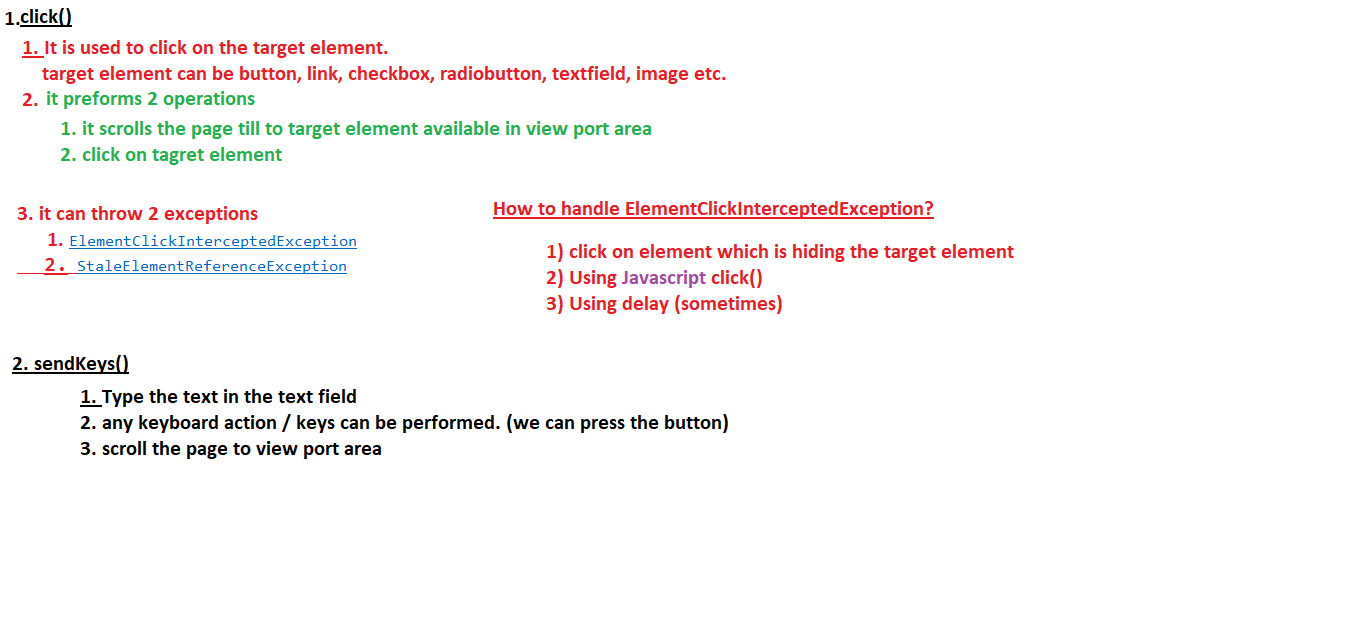
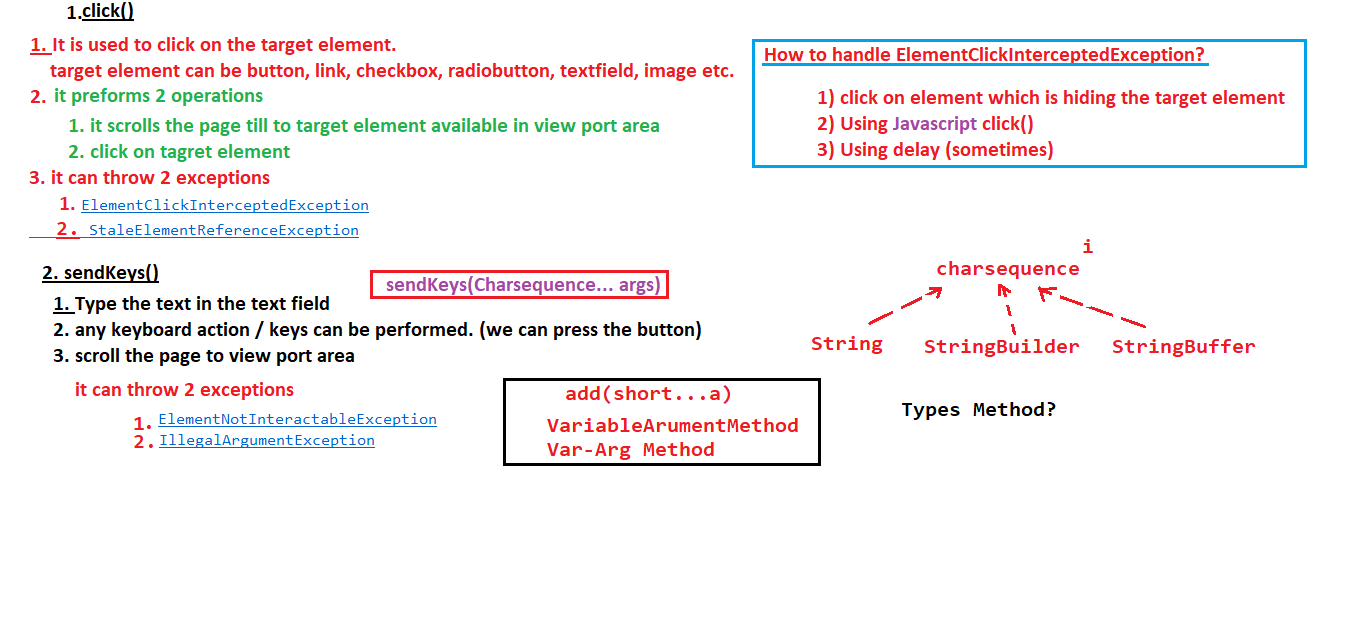
New Commit

diff --git a/SMAY7012025_Old/src/methodOfWebElement/UsageOfGetTextMethod.java b/SMAY7012025_Old/src/methodOfWebElement/UsageOfGetTextMethod.java
@@ -1,0 +1,32 @@
+package methodOfWebElement;
+
+import org.openqa.selenium.By;
+import org.openqa.selenium.WebDriver;
+import org.openqa.selenium.chrome.ChromeDriver;
+
+public class UsageOfGetTextMethod {
+
+	public static void main(String[] args) {
+		System.setProperty("webdriver.chrome.driver", "./drivers/chromedriver.exe");
+		WebDriver driver = new ChromeDriver(); 
+		driver.manage().window().maximize();
+		
+		driver.get("https://testautomationpractice.blogspot.com/");
+		
+		String actualText = driver.findElement(By.name("start")).getText();
+		
+		String exceptedText = "START";
+		
+		System.out.println("actualText: "+actualText);
+		System.out.println("exceptedText: "+exceptedText);
+		
+		
+		if(actualText.equalsIgnoreCase(exceptedText)) {
+			System.out.println("PASS:: Text of the button is as expected");
+		}else {
+			System.out.println("FAIL:: Text of the button is not as expected");
+		}
+		driver.quit();
+	}
+
+}

diff --git a/SMAY7012025_Old/src/methodOfWebElement/UsageOfSendKyesCharSequence2.java b/SMAY7012025_Old/src/methodOfWebElement/UsageOfSendKyesCharSequence2.java
@@ -1,25 +1,22 @@
-package test;
+package methodOfWebElement;
 
 import org.openqa.selenium.By;
-import org.openqa.selenium.Keys;
 import org.openqa.selenium.WebDriver;
 import org.openqa.selenium.chrome.ChromeDriver;
 
-public class P1 {
+public class UsageOfSendKyesCharSequence2 {
 
 	public static void main(String[] args) throws InterruptedException {
 		System.setProperty("webdriver.chrome.driver", "./drivers/chromedriver.exe");
-		WebDriver driver = new ChromeDriver();
+		WebDriver driver = new ChromeDriver(); 
 		driver.manage().window().maximize();
+		
 		driver.get("https://opensource-demo.orangehrmlive.com/web/index.php/auth/login");
-		Thread.sleep(3000);
 		
-		String username = null;
+		Thread.sleep(5000);
 		
-		driver.findElement(By.name("username")).sendKeys(username);
-		
-		
-		
+		driver.findElement(By.name("username")).sendKeys("Sheela", "Meena", "Teena");
+
 	}
 
 }

diff --git a/SMAY7012025_Old/src/methodOfWebElement/UsageOfSendKyesException2.java b/SMAY7012025_Old/src/methodOfWebElement/UsageOfSendKyesException2.java
@@ -1,25 +1,26 @@
-package test;
+package methodOfWebElement;
 
 import org.openqa.selenium.By;
-import org.openqa.selenium.Keys;
 import org.openqa.selenium.WebDriver;
+import org.openqa.selenium.WebElement;
 import org.openqa.selenium.chrome.ChromeDriver;
 
-public class P1 {
+public class UsageOfSendKyesException2 {
 
 	public static void main(String[] args) throws InterruptedException {
 		System.setProperty("webdriver.chrome.driver", "./drivers/chromedriver.exe");
-		WebDriver driver = new ChromeDriver();
+		WebDriver driver = new ChromeDriver(); 
 		driver.manage().window().maximize();
+		
 		driver.get("https://opensource-demo.orangehrmlive.com/web/index.php/auth/login");
-		Thread.sleep(3000);
+		
+		Thread.sleep(5000);
 		
 		String username = null;
 		
 		driver.findElement(By.name("username")).sendKeys(username);
 		
-		
-		
+
 	}
 
 }

diff --git a/SMAY7012025_Old/src/methodOfWebElement/UsageOfSendKyesCharSequence1.java b/SMAY7012025_Old/src/methodOfWebElement/UsageOfSendKyesCharSequence1.java
@@ -1,0 +1,27 @@
+package methodOfWebElement;
+
+import org.openqa.selenium.By;
+import org.openqa.selenium.WebDriver;
+import org.openqa.selenium.chrome.ChromeDriver;
+
+public class UsageOfSendKyesCharSequence1 {
+
+	public static void main(String[] args) throws InterruptedException {
+		System.setProperty("webdriver.chrome.driver", "./drivers/chromedriver.exe");
+		WebDriver driver = new ChromeDriver(); 
+		driver.manage().window().maximize();
+		
+		driver.get("https://opensource-demo.orangehrmlive.com/web/index.php/auth/login");
+		
+		Thread.sleep(5000);
+		
+//		StringBuilder username = new StringBuilder("Admin");
+		StringBuffer username1 = new StringBuffer("Sheela");
+		
+//		driver.findElement(By.name("username")).sendKeys(username);
+		
+		driver.findElement(By.name("username")).sendKeys(username1);
+
+	}
+
+}

diff --git a/SMAY7012025_Old/src/methodOfWebElement/UsageOfSendKyesHandleException.java b/SMAY7012025_Old/src/methodOfWebElement/UsageOfSendKyesHandleException.java
@@ -1,0 +1,29 @@
+package methodOfWebElement;
+
+import org.openqa.selenium.By;
+import org.openqa.selenium.WebDriver;
+import org.openqa.selenium.chrome.ChromeDriver;
+
+public class UsageOfSendKyesHandleException {
+
+	public static void main(String[] args) throws InterruptedException {
+		System.setProperty("webdriver.chrome.driver", "./drivers/chromedriver.exe");
+		WebDriver driver = new ChromeDriver(); 
+		driver.manage().window().maximize();
+		
+		driver.get("https://opensource-demo.orangehrmlive.com/web/index.php/auth/login");
+		
+		Thread.sleep(5000);
+		
+		String username = null;
+		
+		if(username!=null) {
+			driver.findElement(By.name("username")).sendKeys(username);
+		}else {
+			System.out.println("Username is not available, it is having null value");
+		}
+		
+
+	}
+
+}

diff --git a/SMAY7012025_Old/src/methodOfWebElement/UsageOfClearMethod.java b/SMAY7012025_Old/src/methodOfWebElement/UsageOfClearMethod.java
@@ -1,0 +1,28 @@
+package methodOfWebElement;
+
+import org.openqa.selenium.By;
+import org.openqa.selenium.WebDriver;
+import org.openqa.selenium.WebElement;
+import org.openqa.selenium.chrome.ChromeDriver;
+
+public class UsageOfClearMethod {
+
+	public static void main(String[] args) throws InterruptedException {
+		System.setProperty("webdriver.chrome.driver", "./drivers/chromedriver.exe");
+		WebDriver driver = new ChromeDriver(); 
+		driver.manage().window().maximize();
+		
+		driver.get("https://testautomationpractice.blogspot.com/");
+		
+		WebElement textField = driver.findElement(By.id("field1"));
+		textField.clear();
+		
+		textField.sendKeys("Vivek");
+		
+		Thread.sleep(5000);
+		
+		driver.quit();
+
+	}
+
+}

diff --git a/SMAY7012025_Old/src/methodOfWebElement/UsageOfSendKyesException1.java b/SMAY7012025_Old/src/methodOfWebElement/UsageOfSendKyesException1.java
@@ -1,0 +1,22 @@
+package methodOfWebElement;
+
+import org.openqa.selenium.By;
+import org.openqa.selenium.WebDriver;
+import org.openqa.selenium.chrome.ChromeDriver;
+
+public class UsageOfSendKyesException1 {
+
+	public static void main(String[] args) {
+		System.setProperty("webdriver.chrome.driver", "./drivers/chromedriver.exe");
+		WebDriver driver = new ChromeDriver();
+		driver.manage().window().maximize();
+		
+		driver.get("https://the-internet.herokuapp.com/dynamic_controls?");
+		
+		driver.findElement(By.cssSelector("input[type='text']")).sendKeys("Vivek");
+		
+		driver.quit();
+
+	}
+
+}

diff --git a/SMAY7012025_Old/src/variableArgumentMethod/P1.java b/SMAY7012025_Old/src/variableArgumentMethod/P1.java
@@ -1,0 +1,26 @@
+package variableArgumentMethod;
+
+public class P1 {
+	
+	public static void add(int a, int b) {
+		int sum = a+b;
+		System.out.println("Sum: "+sum);
+	}
+	
+	public static void add(int a, int b, int c) {
+		int sum = a+b+c;
+		System.out.println("Sum: "+sum);
+	}
+	public static void add(int a, int b, int c, int d) {
+		int sum = a+b+c+d;
+		System.out.println("Sum: "+sum);
+	}
+	
+	public static void main(String[] args) {
+		add(30,50);
+		add(40,50,60);
+		add(10,20,30,40);
+
+	}
+
+}

diff --git a/SMAY7012025_Old/src/variableArgumentMethod/P2.java b/SMAY7012025_Old/src/variableArgumentMethod/P2.java
@@ -1,0 +1,21 @@
+package variableArgumentMethod;
+
+public class P2 {
+	
+	public static void add(int[] arr) {
+		int sum = 0;
+		for(int a : arr) {
+			sum = sum + a;
+		}
+		System.out.println(sum);
+	}
+
+	public static void main(String[] args) {
+		add(new int[] {10,20,30});
+		add(new int[] {10,20,30,40,50,60});
+		add(new int[] {10,20,30,40,50,60,40,80,60,70,200});
+	}
+
+}
+//after JDK 1.5
+//VariableArgumentMethod

diff --git a/SMAY7012025_Old/src/variableArgumentMethod/P3.java b/SMAY7012025_Old/src/variableArgumentMethod/P3.java
@@ -1,0 +1,23 @@
+package variableArgumentMethod;
+
+public class P3 {
+	public static void add(int... arr) {
+		int sum = 0;
+		for(int a : arr) {
+			sum = sum + a;
+		}
+		System.out.println(sum);
+	}
+
+	public static void main(String[] args) {
+		
+		add();
+		add(10,20,30);
+		add(10,20,30,40,50);
+	}
+	
+	public static void test(CharSequence... arg) {
+		
+	}
+
+}
